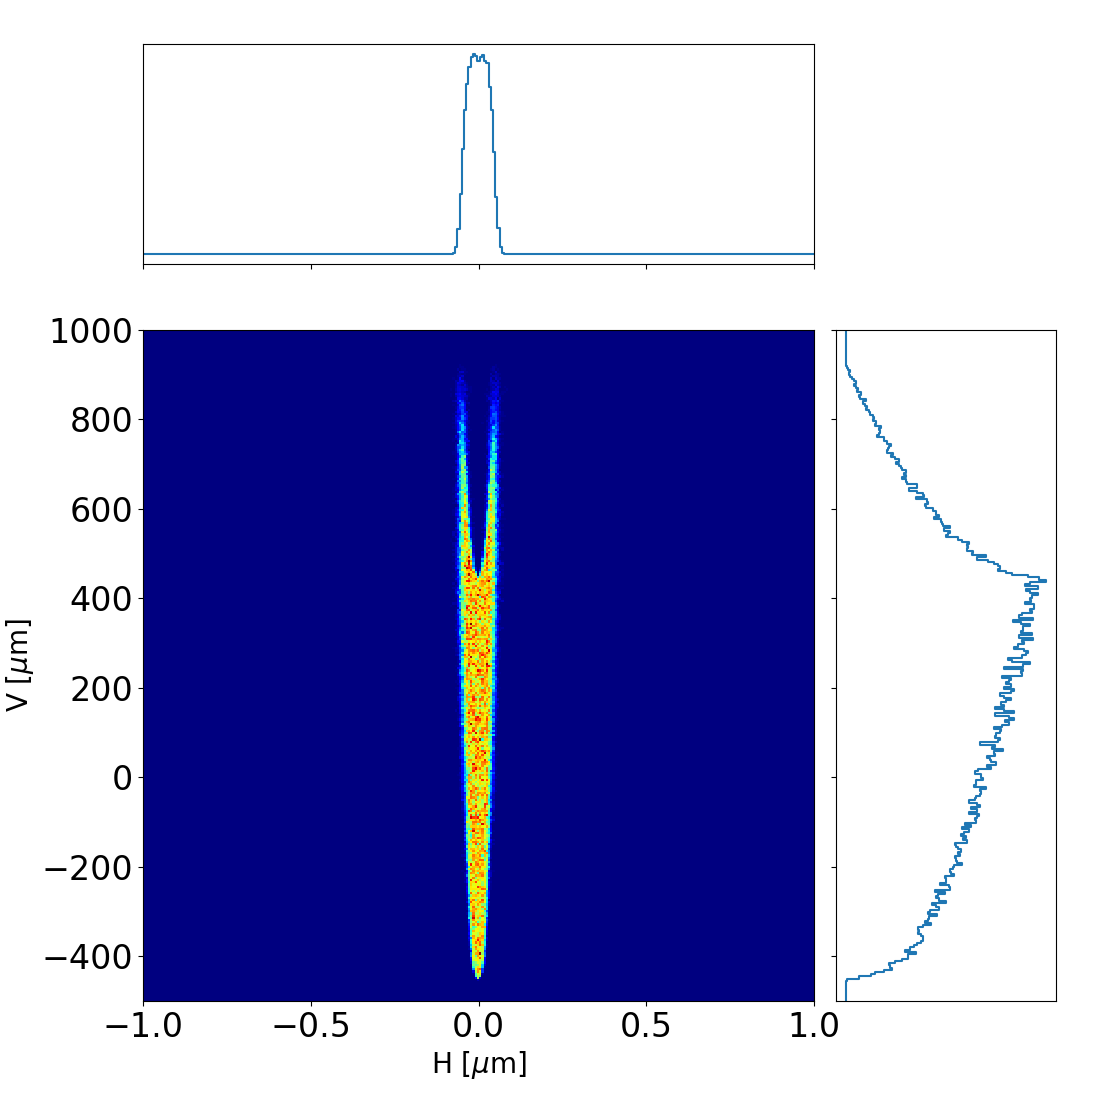
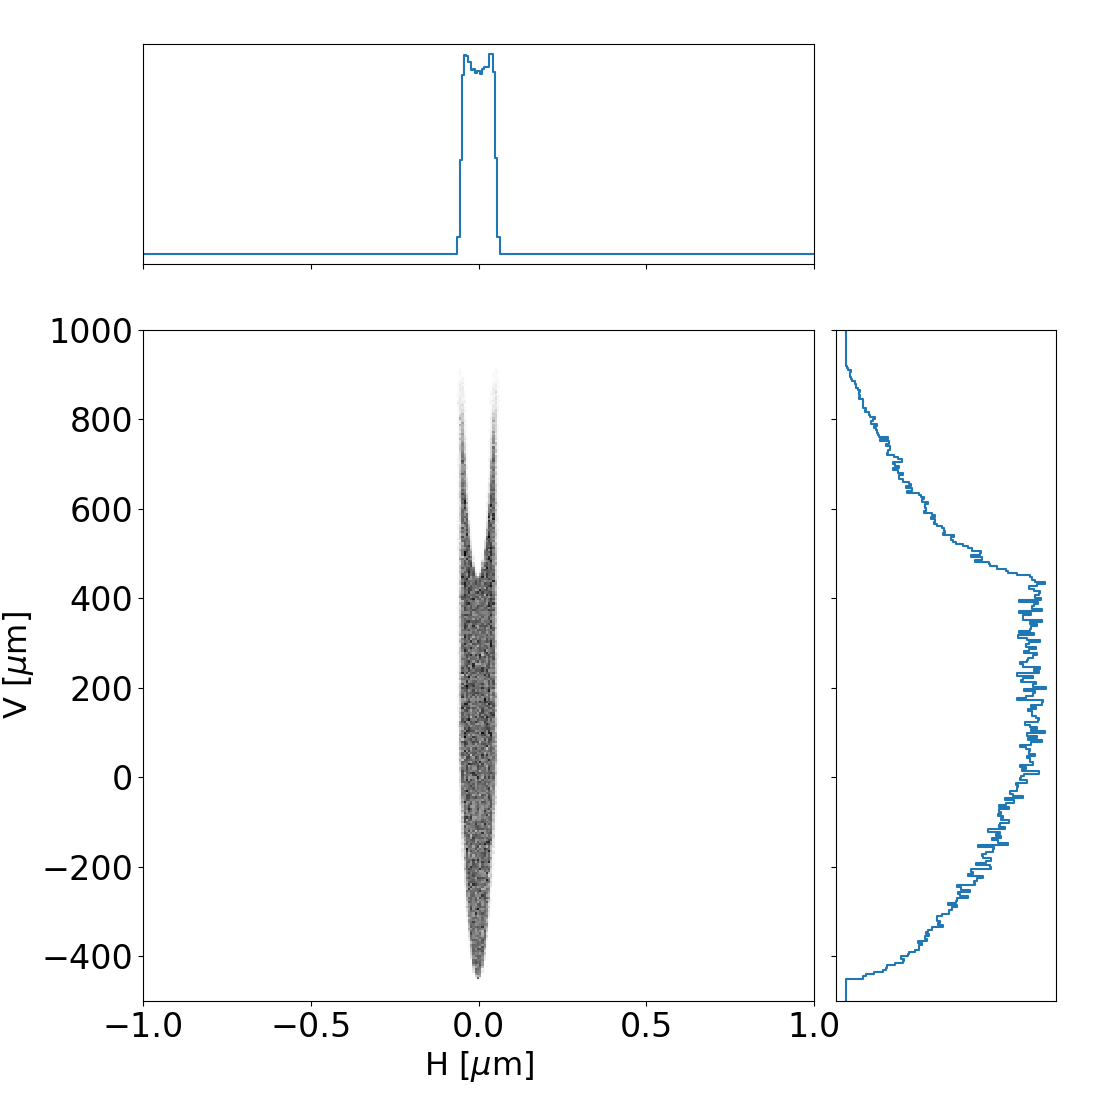
update

diff --git a/Diaboloid.tex b/Diaboloid.tex
@@ -82,7 +82,7 @@ The diaboloid is a reflecting surface that convert a spherical wave to a cylindr
 
 \section{Introduction}
 
-In the development of synchrotron radiation sources, brightness has always been a key metric, and as such the emphasis has always been on undulators.  A secondary consideration has been the development of the bending magnets. These white light sources hold key advantages for a range of x-ray experiments, such as Laue diffraction, dispersive EXAFS and other experiments which take advantage of a wide bandwidth.  In other areas, the agility in photon energy offered by a monochromatized bending magnet radiation is a key advantage.  Now with the advent of 4th generation MBA synchrotron sources, bending magnet sources are becoming even more attractive for a segment of synchrotron experiments.  However a key technical challenge is how to maintain the brightness of these sources while imaging a significant horizontal aperture.  In undulator sources we have the luxury of using only tangentially curved optics for focusing in both horizontal and vertical planes.  For bending magnet sources, to collect a reasonable horizontal aperture, we have to use sagittaly curved optics.  This could be as in a crystal monochromator with a sagittally curved 2nd crystal, or with a sagitally focusing cylindrical or toroidal mirror.  At ALS we decided to adopt toroidal mirrors for our protein crystallography beamlines, due to the robustness of the system.  In order to preserve the brightness, it was found that if we had a system with a tangentially collimating pre-mirror and a toroid mirror downstream of the crystal monochromator, if we focused from infinity in the vertical direction and from the real source in the horizontal direction with 2:1 demagnification,  astigmatic coma aberrations vanished. This arrangement was used in ALS superbend beamlines as originally described in  \cite{MacDowell2004}.
+In the development of synchrotron radiation sources, brightness has always been a key metric, and as such the emphasis has always been on undulators.  A secondary consideration has been the development of the bending magnets. These white light sources hold key advantages for a range of x-ray experiments, such as Laue diffraction, dispersive EXAFS and other experiments which take advantage of a wide bandwidth.  In other areas, the agility in photon energy offered by a monochromatized bending magnet radiation is a key advantage.  Now with the advent of 4th generation muti-bend achromat (MBA) synchrotron sources, bending magnet sources are becoming even more attractive for a segment of synchrotron experiments.  However a key technical challenge is how to maintain the brightness of these sources while imaging a significant horizontal aperture.  In undulator sources we have the luxury of using only tangentially curved optics for focusing in both horizontal and vertical planes.  For bending magnet sources, to collect a reasonable horizontal aperture, we have to use sagittaly curved optics.  This could be as in a crystal monochromator with a sagittally curved 2nd crystal, or with a sagitally focusing cylindrical or toroidal mirror.  At ALS we decided to adopt toroidal mirrors for our protein crystallography beamlines, due to the robustness of the system.  In order to preserve the brightness, it was found that if we had a system with a tangentially collimating pre-mirror and a toroid mirror downstream of the crystal monochromator, if we focused from infinity in the vertical direction and from the real source in the horizontal direction with 2:1 demagnification,  astigmatic coma aberrations vanished. This arrangement was used in ALS superbend beamlines as originally described in  \cite{MacDowell2004}.
 %The appendix in this paper describes how the arrangement leads to the elimination of the primary aberration, astigmatic coma. 
 At the time, the horizontal source size was 100 $\mu$m rms and the residual aberrations were far less.  Following an upgrade of the ALS in 2013, the horizontal beam size was reduced to 40 $\mu$m  rms \cite{Steier_2014}. The residual aberrations were still tolerable, but cause around a factor of two decrease in brightness.  With the current ALS-U project, the new lattice will produce a horizontal beam size of 7 $\mu$m rms.  At this value the residual aberrations of our 2:1 aberration correcting toroidal mirror solution are not longer adequate.
 
@@ -98,7 +98,7 @@ We created a tool in the Oasys environment \cite{codeOASYS} that implements nume
 \section{Definition and implementation of the diaboloid surface}
 \label{sec:DiaboloidEqs}
 
-For practical purposes we want to define the diaboloid surface as a function of the focal distances $p,q$ ($p$ is the source-mirror distance, $q$ is the mirror-image distance) and the grazing incidence angle is $\theta$. The diaboloid can be placed in two configurations: i) ``collimating'' to convert a spherical wave into a cylindrical wave (geometrically a point-to-segment focusing, and ii) ``focusing'' to convert a cylindrical wave into a spherical one (or segment-to-point focusing). The latter is the usual configuration in synchrotron beamlines, where the main purpose is to refocus a beam that is collimated in the vertical direction and divergent in the horizontal. 
+For practical purposes we want to define the diaboloid surface as a function of the focal distances $p,q$ ($p$ is the source-mirror distance, $q$ is the mirror-image distance) and the grazing incidence angle is $\theta$. The diaboloid can be placed in two configurations: i) ``collimating'' to convert a spherical wave into a cylindrical wave (geometrically a point-to-segment focusing, and ii) ``focusing'' to convert a cylindrical wave into a spherical one (or segment-to-point focusing). The latter (Fig.~ref{fig:frame}) is the usual configuration in synchrotron beamlines, where the main purpose is to refocus a beam that is collimated in the vertical direction and divergent in the horizontal. 
 
 
 \tikzset{every picture/.style={line width=0.75pt}} %set default line width to 0.75pt        
@@ -166,12 +166,11 @@ z(x,y) = q \sin2\theta -
 2 (p+q)  \sqrt{x^2 + (y + p)^2}) 
 ]^{1/2}.
 \end{multline}
-
-The mirror height is $z$=0 at the mirror center position $x, y$ = 0, as expected. The tangential profile ($x$=0) is a parabola $y=q \sin2\theta + z^2/(4f)$ and focal length $ f = q (1-\cos2\theta) /2$. For small angles ($\cos2\theta\approx 1 - 2\theta^2$) and $|y|\ll q$ gives $z\approx 2 \theta q + \theta y$ with slope in the center $dz/dy=\theta$. The sagittal section ($y$=0) is an ellipse $x^2/a^2 + (z + q \sin2\theta)^2/b^2=1$ with semiaxes $a=q \sin2\theta$ and $b=a \sqrt{p /(p+q)}$ \todo{REF HOWARD LSBL 1465}. 
+The mirror height is $z$=0 at the mirror center position $x, y$=0, as expected. The tangential profile ($x$=0) is a parabola $y=q \sin2\theta + z^2/(4f)$ and focal length $ f = q (1-\cos2\theta) /2$. For small angles ($\cos2\theta\approx 1 - 2\theta^2$) and $|y|\ll q$ gives $z\approx 2 \theta q + \theta y$ with slope in the center $dz/dy=\theta$. The sagittal section ($y$=0) is an ellipse $x^2/a^2 + (z + q \sin2\theta)^2/b^2=1$ with semiaxes $a=q \sin2\theta$ and $b=a \sqrt{p /(p+q)}$ \todo{REF HOWARD LSBL 1465}. 
 
 For ray tracing calculations it is convinient to obtain the numerical mesh as a function of a mirror-related coordinate system ($X,Y,Z$) (Fig.~\ref{fig:frame}), with origin in the center of the mirror, one axis ($Y$) tangent to the diaboloid surface origin in the direction of the beam propagation, another axis ($X$) tangent to the diaboloid surface origin in the direction perpendicular of the beam propagation, and the third axis ($Z$) is outward pointing perpendicular to $X$ and $Y$. Therefore the surface in its explicit form needed for being evaluated numerically is $Z(X,Y)$ with $X \in [-W/2, W/2]$ and $Y \in [-L/2, L/2]$ with $L$ the mirror length and $W$ the mirror width. The mirror length is sampled in $N_Y$ points and the mirror width in $N_X$ points, therefore the height or elevation of a point is $Z_{i,j}=Z(X_i,Y_j)$.
 In most practical cases the grazing incidence $\theta$ is small, therefore Eq.~\ref{eqn:diaboloidV} can be expressed in the $X,Y,Z$ frame by forcing zero slope at the origin (i.e., detrending the plane $z_{plane}=y \theta$). This is done numerically after evaluating the surface using Eq.~\ref{eqn:diaboloidV}. 
-The exact explicit expression of the diaboloid $Z(X,Y)$ can be obtained from the rotation of Eq.~\ref{eqn:diaboloidV} an angle $\theta$ \cite{part2}, resulting in a fourth-degree poynomial equation $F(X,Y,Z)=0$. The explicit equation is therefore obtained by solving this equation for the any point of the $(X_i,Y_j)$ mesh. This is done numerically using the {\tt fqs} python library by N. Krvavika ({\tt https://github.com/NKrvavica/fqs}). 
+The exact explicit expression of the diaboloid $Z(X,Y)$ can be obtained from the rotation of Eq.~\ref{eqn:diaboloidV} an angle $\theta$ \cite{part2}, resulting in a fourth-degree poynomial equation $F(X,Y,Z)=0$. The explicit equation is therefore obtained by solving this equation for the any point of the $(X_i,Y_j)$ mesh.
 
 
 
@@ -181,7 +180,7 @@ The simplest approximaton of the diaboloid is the toroid, approximated by a doub
 
 \begin{equation}
 \label{eqn:radii}
-\frac{1}{p} = \frac{2 }{\sin\theta R_r};~~~~~~
+\frac{1}{p} = \frac{2 }{R_m \sin\theta };~~~~~~
 \frac{1}{p} + \frac{1}{q} = \frac{2\sin\theta}{ R_s}.
 \end{equation}
 
@@ -202,7 +201,6 @@ k_2 = \frac{\sin2\theta(q-2p\cos^2\theta)}{2(p+q)}.
 \end{equation}
 
 
-
 The variation of the sagittal radius versus $Y$  (Eq. 35 in \cite{part2}) is approximately linear
 \begin{multline}
 \label{eq:sagRadius}
@@ -211,15 +209,20 @@ R_s(Y) = \frac{2  p \sin\theta \cos\theta}{p + q} (q - Y \cos\theta)   \sqrt{Y \
 \frac{2p q \cos^2\theta \sin\theta  }{p + q} - 
 \frac{\cos\theta \sin\theta (2 p \cos^2\theta - q)}{p + q} Y.
 \end{multline}
-
 The central sagittal radius $R_s(Y=0)=p q \sin\theta \cos^2\theta/ (p+q)$ is very close, but not exact to the one given by the Coddington equation $R_s^c=2 p q \sin\theta / (p+q)$.
+
+\todo{FOR SIMPLICITY IT MAY BE POSSIBLE TO REMOVE EQS. \ref{eqn:radii} AND \ref{eqn:parabolicCone} AND LEAVE ONLY THE LINEARIZED APPROXIMATION IN EQ. \ref{eq:sagRadius}} 
+
+\todo{IT MAY BE POSSIBLE TO DISCUSS HERE THE COLLAPSING OF THE LINEAR TERM IN 2:1 CONFIGURATION... BUT I PREFERRED TO SEE IT LATER}
 %The second comment is that the variation of the sagittal radius given by Eq.~\ref{eq:sagRadius} is significantly different (see Fig.~\ref{fig:sagittalRadius}) to a "naive" variation generated the applying the Coddington equation at every point in $Y$ (that "sees" the source and image at distances $p'=\sqrt{(-p \cos\theta - Y)^2 + (p \sin\theta)^2}$ and $q'=\sqrt{(q \cos\theta - Y)^2 + (q \sin\theta)^2}$, respectively, and angle $\theta'=\arcsin(p \sin\theta / p')$).
 
 
 \subsection{Numerical implementation and testing}
 \label{sec:oasys}
 
-A graphical interface or widget in the Oasys environment  creates the diaboloid surface and its approximations in the form of a numerical mesh. The user selects the type of surface to calculate (exact diaboloid or other approximations), the mirror geometry (size and sampling) and the focusing arrangement (conversion from cylindrical to spherical wave or viceversa). The interface also allows to remove the toroid from the calculated surface to enhance the aspherical terms. The surface is written in a {\tt hdf5} formatted file, as it is standard for Oasys surfaces. This format allows to input easily the numerical surface into several Oasys applications, like the ray-tracing tool ShadowOui \cite{codeSHADOWOUI}, but also in wave-optics codes (SRW, Wofry). A view of the interface is in Fig.~\ref{fig:widget}.
+A graphical interface or widget in the Oasys environment  creates the diaboloid surface and its approximations in the form of a numerical mesh. The user selects the type of surface to calculate (diaboloid or other approximations), the mirror geometry (size and sampling) and the focusing arrangement (conversion from cylindrical to spherical wave or viceversa). 
+The diaboloid is implemented in an approximated way by using the detrended Eq.\ref{eqn:diaboloidV} or in an exact form by solving numerically its implicit quartic equation using the {\tt fqs} python library by N. Krvavika ({\tt https://github.com/NKrvavica/fqs}). 
+The interface also allows to remove the toroid from the calculated surface to visualize and use the aspherical components. The surface is written in a {\tt hdf5} formatted file, as it is standard for Oasys surfaces. This format allows to input easily the numerical surface into several Oasys applications, like the ray-tracing tool ShadowOui \cite{codeSHADOWOUI}, but also in wave-optics codes. A view of the interface is in Fig.~\ref{fig:widget}.
 
 \begin{figure}\label{fig:widget}
 \centering
@@ -247,18 +250,17 @@ We performed ray tracing using a single diaboloid with the purpose to test the a
 % \includegraphics[width=0.49\textwidth]{figures/p2s_toroid_z.png}
 \caption{Comparison of images produced by a diaboloid surface focusing in horizontal and collimating in vertical using different implementations: a) diaboloid exact implementation (solving quartic equation),and b) diaboloid approximated implementation (Eq.~\ref{eqn:diaboloidV} detrended with $z_{plane}=\theta Y$).
 %, c) parabolic-quasicone (Eq.~\ref{eqn:parabolicCone}) and d) toroid. Note the different scales in horizontal and vertical. 
-The Full-Width at Half-Maximum (FWHM) is 0.15 nm (a) and 88 nm (b). %, 22 nm (c), and 2.5 $\mu$m (d).
+The Full-Width at Half-Maximum (FWHM) is 0.3 nm (a) and 93 nm (b). %, 22 nm (c), and 2.5 $\mu$m (d).
 }
 \end{figure}
 
-The expected result at the focal position is a line focus (segment) with zero dimension in horizontal and a length of $L\sin\theta$ in vertical. The ray-tracing results are shown in Fig.~\ref{fig:pointToSegment} where the focal images produced by a diaboloid calculated with two methods, i) exact diaboloid and ii) detrended Eq.~\ref{eqn:diaboloidV}.
-%) , linearized paraboloid (Eq.~\ref{eqn:parabolicCone}) and toroid. 
+The expected result at the focal position is a line focus (segment) with zero dimension in horizontal and a length of $L\sin\theta$ in vertical. The ray-tracing results are shown in Fig.~\ref{fig:pointToSegment} where the focal images produced by a diaboloid calculated with the two mentioned methods (exact diaboloid and detrended Eq.~\ref{eqn:diaboloidV}).
 The intensity profile along the vertical direction has a non-uniform profile due to the beam intensity projected on the mirror surface with a grazing angle.
 %As expected, the toroid produces a very aberrated and wide spot (2.5 $\mu$m FWHM and high tails). The parabolic-quasicone reduces the FWHM by two orders of magnitude (22 nm). Aberration tails are observed in this case. 
-Both numerical surfaces produce an almost perfect focusing without aberration tails. However, some residual width is found: 0.15 nm for the exact diaboloid equation and 88 nm for the approximated one. 
+Both numerical surfaces produce an almost perfect horizontal focus without aberration tails. However, some residual width is found: 0.3 nm for the exact diaboloid equation and 93 nm for the approximated one. 
 %These values are much below the typical dimensions in practical cases where spots of $\mu$m size or larger are expected because the source size and optical aberrations. 
-The residual 0.15 nm in the exact implementation is certainly due to numerical round errors and also the use of iterative algorithms to find ray intersects, as done in SHADOW.
-The approximate form of the diaboloid appears to be adequate for all practical implementations, as typically we will be imaging a source with a horizontal size of 10 – 50 microns, and the errors in comparison are insignificant.  The approximate method is interesting as it gives an intuitive and simple direct way to visualize the surface.
+The residual 0.3 nm in the exact implementation is certainly due to numerical round errors and also the use of iterative algorithms to find ray intersects, as done in SHADOW.
+The approximate form of the diaboloid gives a residual of 93 nm that is originated by the use of the basal plane detrending replacing the exact rotation. It appears, however, to be adequate for all practical implementations, as typically we will be imaging a source with a horizontal size of 10 – 50 microns, and the errors in comparison are insignificant. The approximate method is interesting as it gives an intuitive and simple direct way to visualize the surface.
 
 \section{Ray-tracing the ALS beamline 12.2.2}
 \label{sec:beamline}
